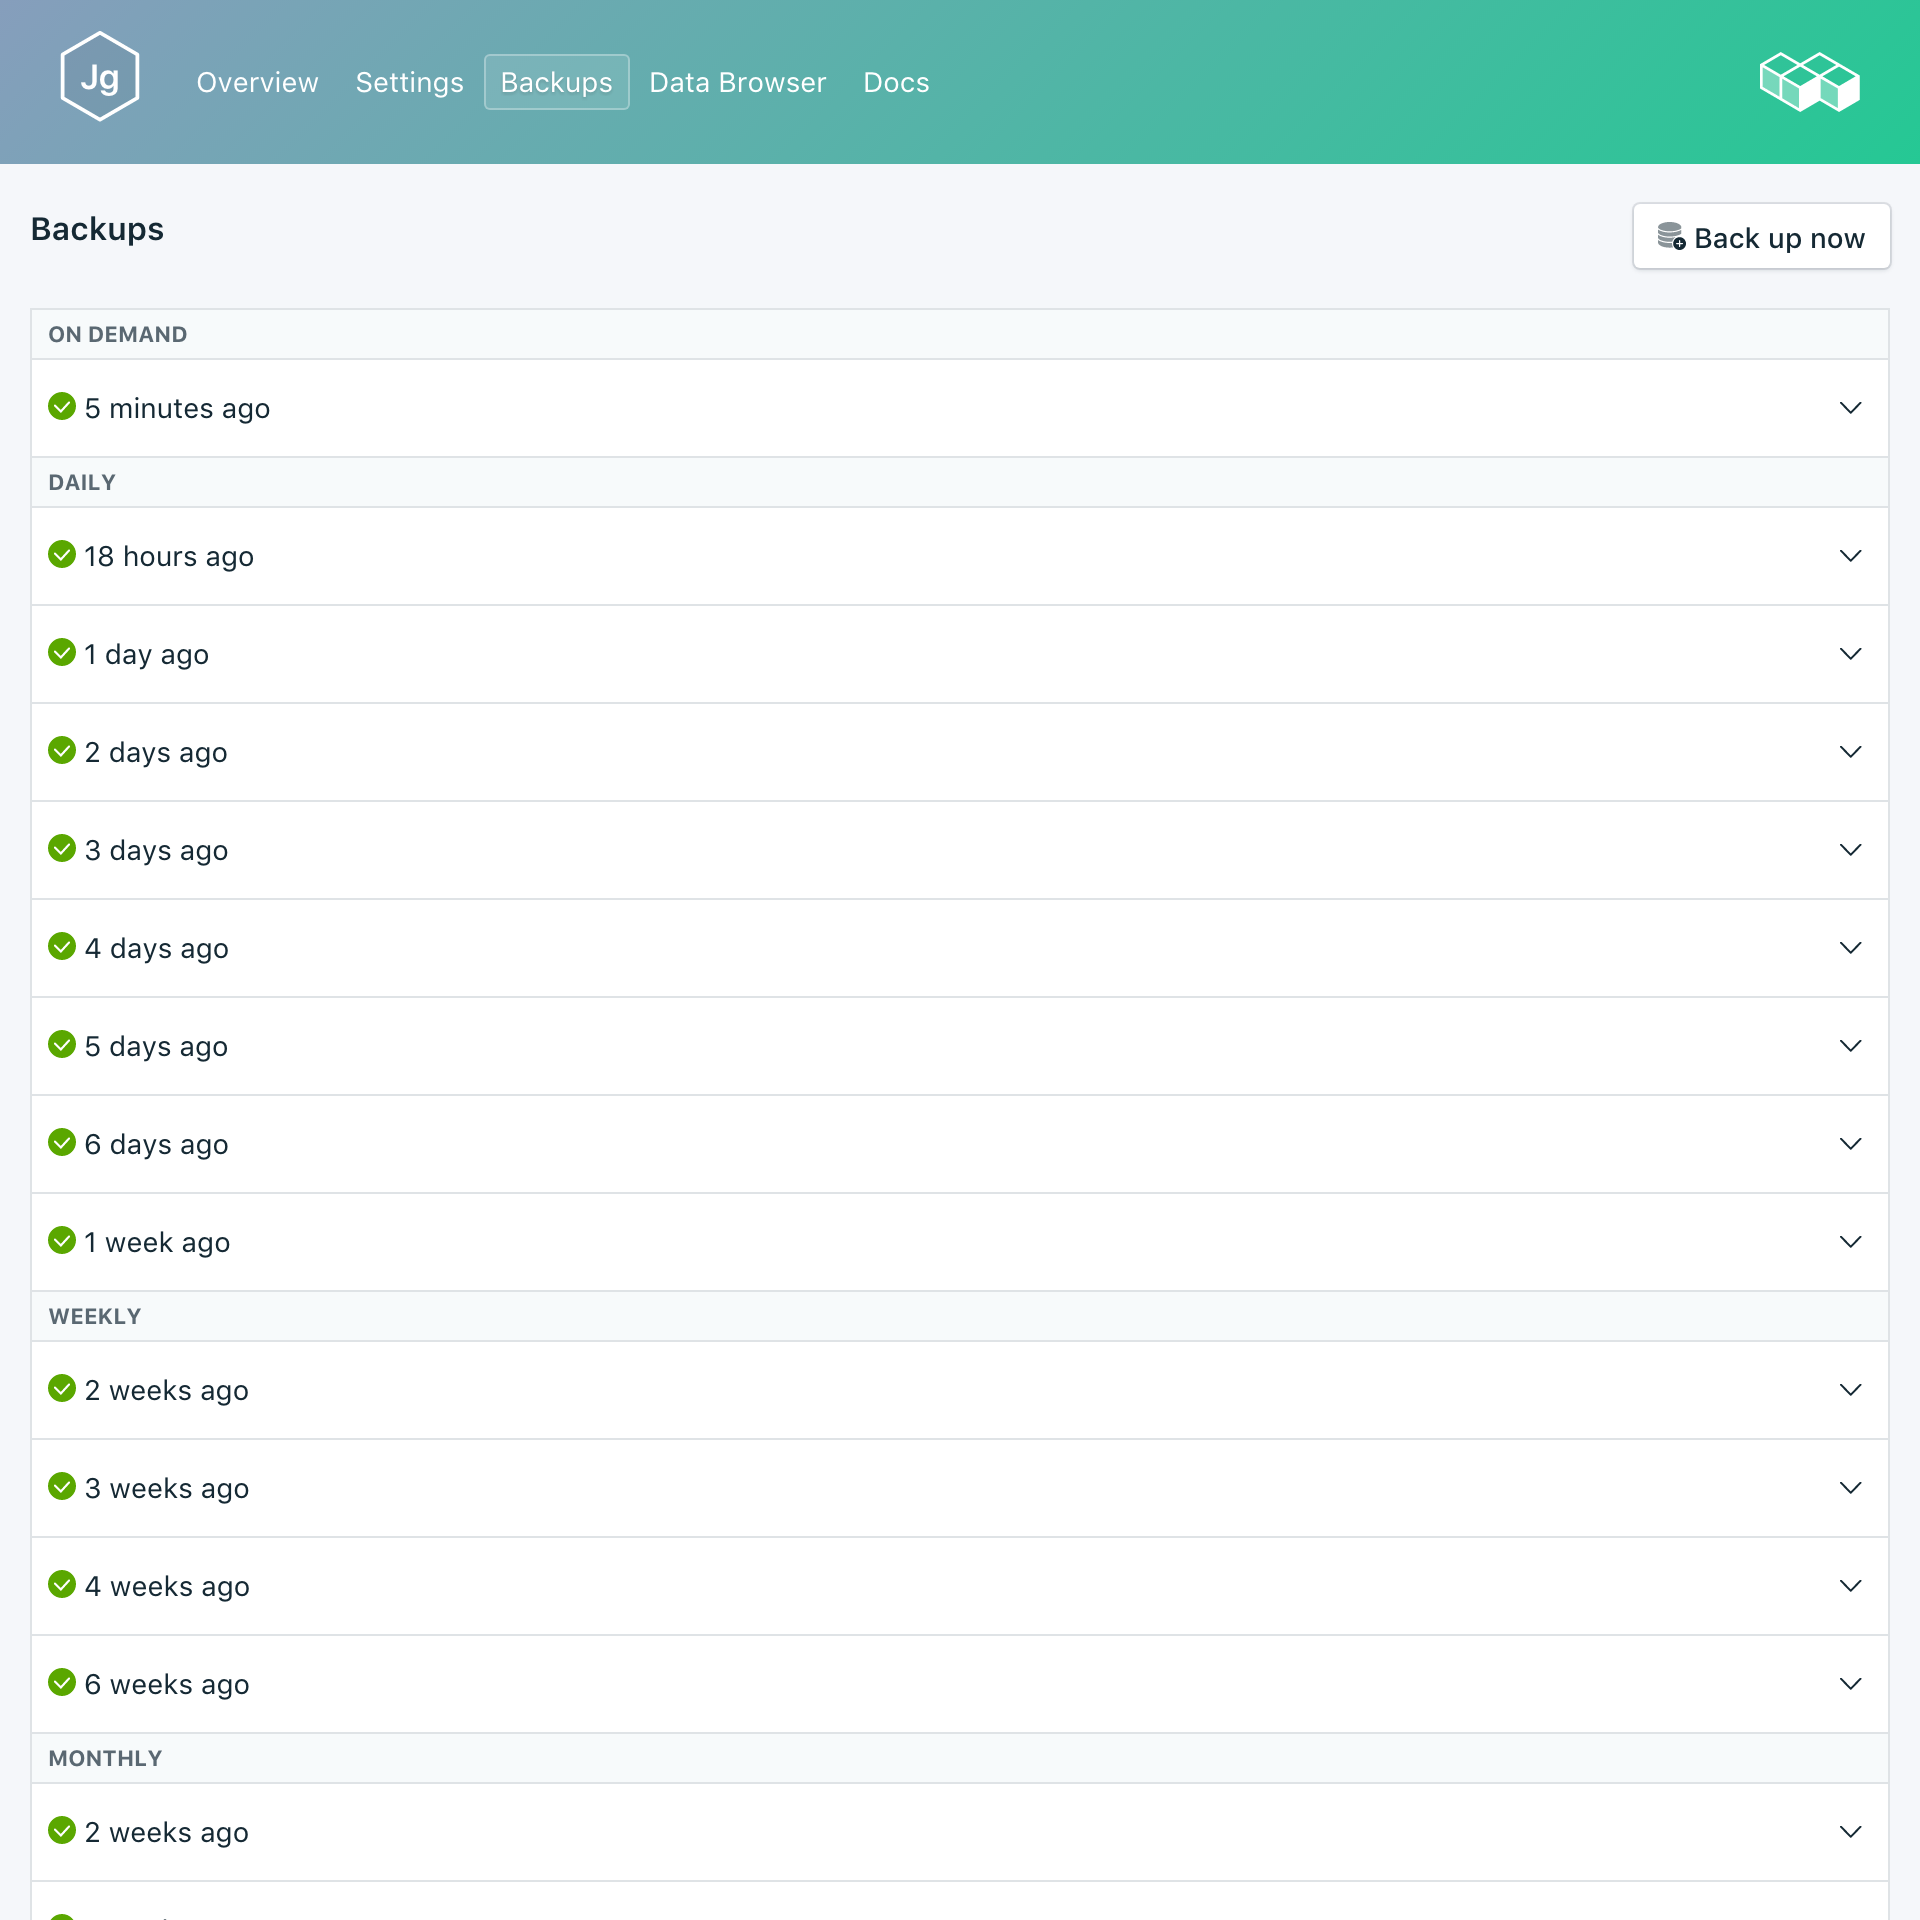
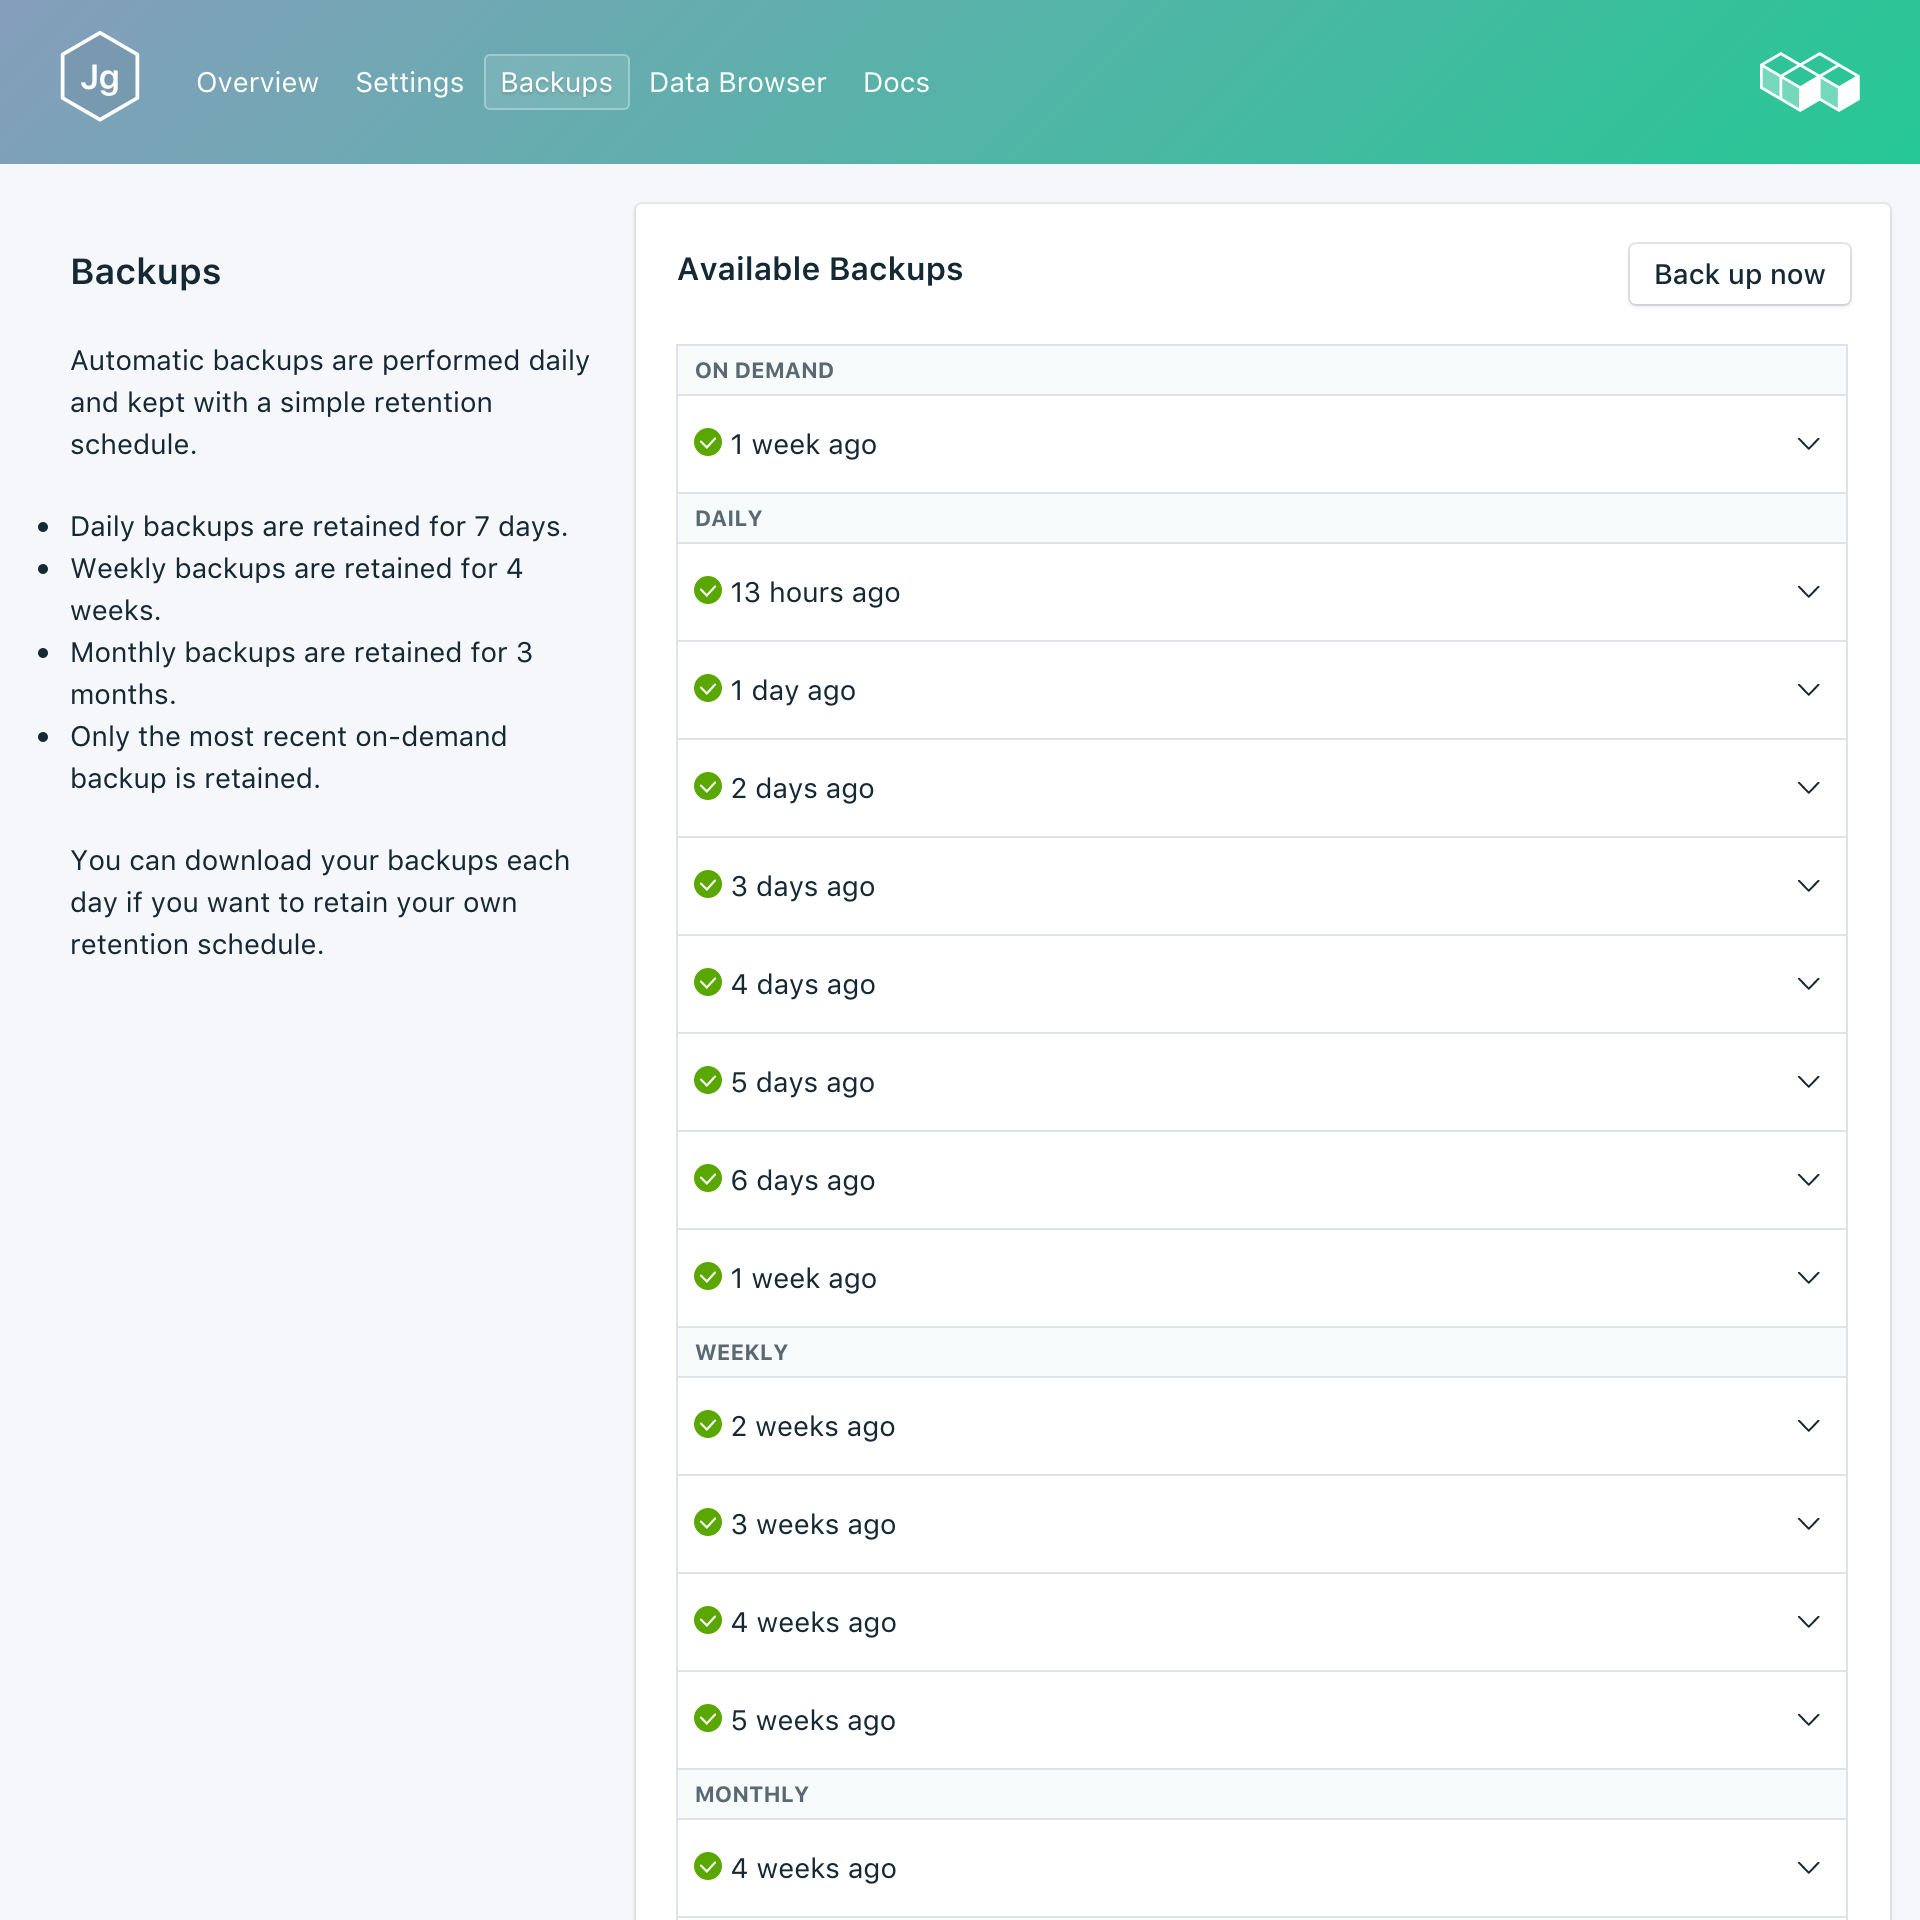
Updates 05 Dec

diff --git a/janusgraph-concepts.md b/janusgraph-concepts.md
@@ -2,12 +2,14 @@
 
 copyright:
   years: 2017
-lastupdated: "2017-08-04"
+lastupdated: "2017-12-06"
 ---
 
 # JanusGraph Concepts
 
-JanusGraph is a graph database. You can create, query and amend a number of graphs within the database. JanusGraph is built upon the Apache Tinkerpop stack and uses the Gremlin language for traversal, commands, and queries. To read more about JanusGraph, see the [JanusGraph Documentation](http://docs.janusgraph.org/latest/index.html).
+JanusGraph is a graph database. You can create, query and amend a number of graphs within the database. JanusGraph is built upon the Apache Tinkerpop stack and uses the Gremlin language for traversal, commands, and queries.
+
+To read more about JanusGraph, see the [JanusGraph Documentation](http://docs.janusgraph.org/latest/index.html).
 
 ## Introduction to Graph Databases
 
@@ -24,11 +26,13 @@ Within JanusGraph, each graph has a unique name. To create, open, modify, and qu
 ## Vertices
 
 A vertex is a graph element that represents an object. At vertex creation it has an identifier set by the graph engine and a label that is user defined. A vertex can additionally store properties which can be indexed and queried upon.
+
 Read more about how to create, query, and other implementation details for vertices, see the [Tinkerpop/Gremlin documentation](http://tinkerpop.apache.org/docs/3.2.3/reference/#_the_graph_structure).
 
 ## Edges
 
 An edge is a graph element that represents a relationship. To create an edge, the user provides the incoming/outgoing vertices and a label. The edge will be assigned an identifier by the graph engine. An edge can additionally store properties which can be indexed and queried upon.
+
 Read more about how to create, query, and other implementation details for edges, see the [Tinkerpop/Gremlin documentation](http://tinkerpop.apache.org/docs/3.2.3/reference/#_the_graph_structure).
 
 ## Properties

diff --git a/dashboard-backups.md b/dashboard-backups.md
@@ -14,9 +14,17 @@ lastupdated: "2017-10-16"
 # Backups
 {: #backups}
 
-You can create and download backups from the _Backups_ tab of the *Manage* page of your service dashboard. Both scheduled and manual backups are available.
+You can create and download backups from the _Backups_ tab of the _Manage_ page of your service dashboard. Daily, weekly, monthly, and on-demand backups are available. They are retained according to the following schedule:
 
-Backups are created by backing up the Scylla database nodes. Scylla backups are taken using the Scylla snapshot utility, backing up all the on-disk data files stored in the data directory. The snapshot can run while your databases are on-line.
+Backup type|Retention schedule
+----------|-----------
+Daily|Daily backups are retained for 7 days
+Weekly|Weekly backups are retained for 4 weeks
+Monthly|Monthly backups are retained for 3 months
+On-demand|One on-demand backup is retained. The retained backup is always the most recent on-demand backup.
+{: caption="Table 1. Backup retention schedule" caption-side="top"}
+
+Backup schedules and retention policies are fixed. If you need to keep more backups than the retention schedule allows, you should download backups and retain archives according to your business requirements.
 
 ## Viewing existing backups
 

diff --git a/dashboard-settings.md b/dashboard-settings.md
@@ -47,7 +47,9 @@ A new, randomly generated password will appear, or you can type your own passwor
   
 ![Updating the etcd password](./images/janusgraph-update-password.png "The automatic password generator")
 
-The changes take effect when you click on the **Update Password** button. This will change the credentials that you and your services use to connect and is a part of your service's connection string. The _Deployment Details_ pane will show the progress of the running job.
+Click **Update Password**. You will be asked to confirm the change. Click **Update Password** in the dialog to confirm the new password, or cancel to cancel the change. The _Deployment Details_ pane will show the progress of the running job.
+
+**Note:** Changing the password changes the credentials that you and your services use to connect, and invalidates your service's connection string. It can also result in downtime.
 
 ### Updating Connected Applications
 Changing the password will invalidate the existing connection string and generate a new one. This will cause a service interruption until connected applications are updated with the new connection string. You will have to do this by suppling the new connection string to your applications.

diff --git a/index.md b/index.md
@@ -2,7 +2,7 @@
 
 Copyright:
   Years: 2017
-lastupdated: "2017-10-24"
+lastupdated: "2017-12-06"
 ---
 
 {:new_window: target="_blank"}
@@ -16,6 +16,8 @@ lastupdated: "2017-10-24"
 
 {{site.data.keyword.composeForJanusGraph_full}} is a scalable graph database that is optimized for storing and querying highly interconnected data that is modeled as millions or billions of vertices and edges. Simple and efficient retrieval of data from these complex structures is enabled by JanusGraph’s Apache Tinkerpop(TM) compatibility, which allows you to perform efficient queries that would be difficult or impossible with a traditional relational database. {{site.data.keyword.composeForJanusGraph}} makes JanusGraph even better by managing it for you, offering an easy, scalable deployment system that delivers high availability and redundancy, automated no-stop backups and much more.
 {:shortdesc}
+
+A video giving a conceptual overview of {{site.data.keyword.composeForJanusGraph}} is available from the [{{site.data.keyword.composeForJanusGraph}} Learning Center](http://ibm.biz/janusgraph-learning) on {{site.data.keyword.IBM_notm}} developerWorks.
 
 ## Creating a Compose for JanusGraph service instance
 

diff --git a/dashboard-overview.md b/dashboard-overview.md
@@ -23,7 +23,7 @@ The _Deployment Details_ panel shows details of your service.
 
 ### Type
 
-The type of database that is offered by the service, and the database version that your service uses.
+The type of database that is offered by the service, and the database version that your service uses. If a more recent database version is available, a notification is displayed, together with a link to the [Upgrade version](/docs/services/ComposeForJanusGraph/dashboard-settings.html#upgrade-version) section of your service dashboard.
 
 ### Name
 
